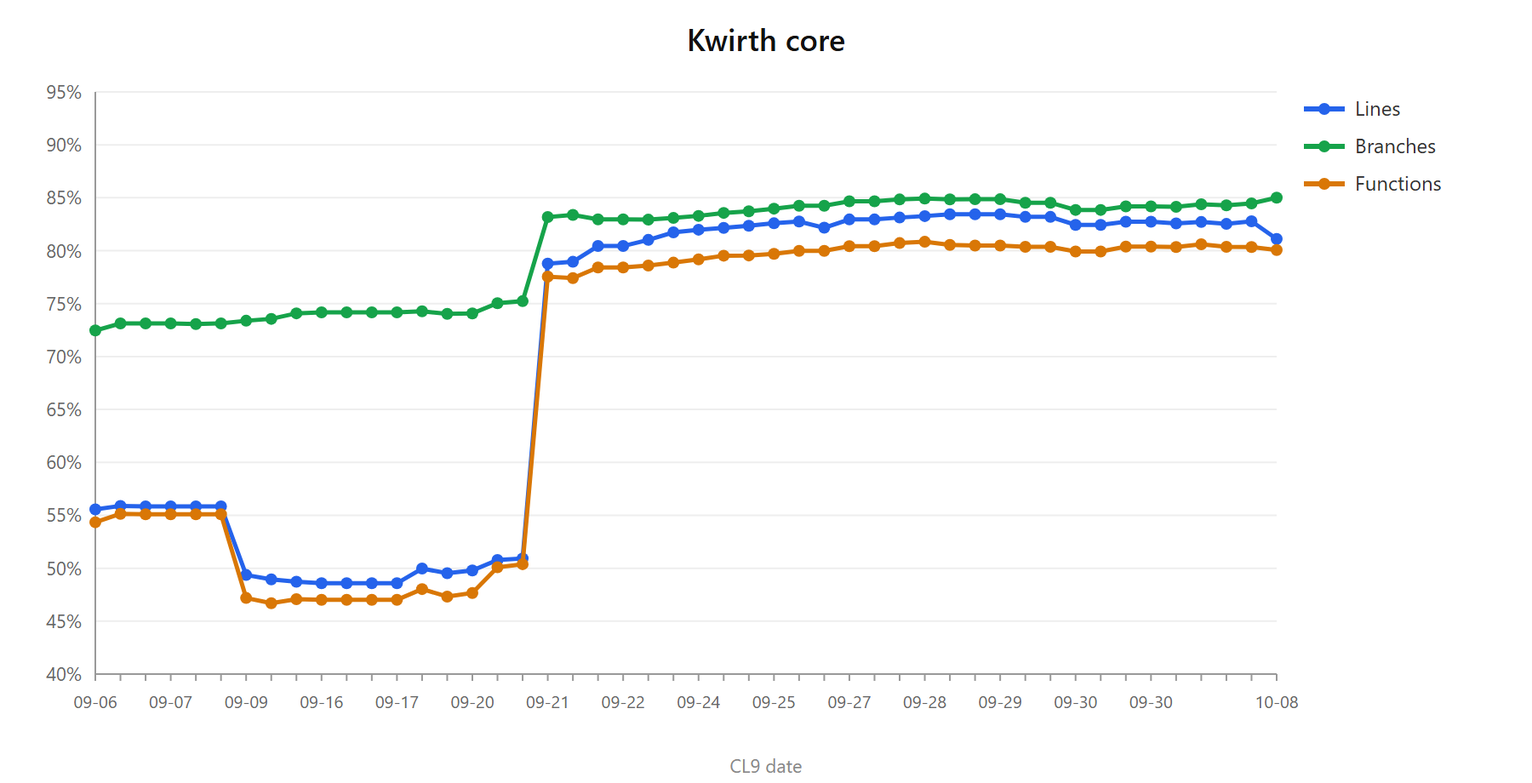
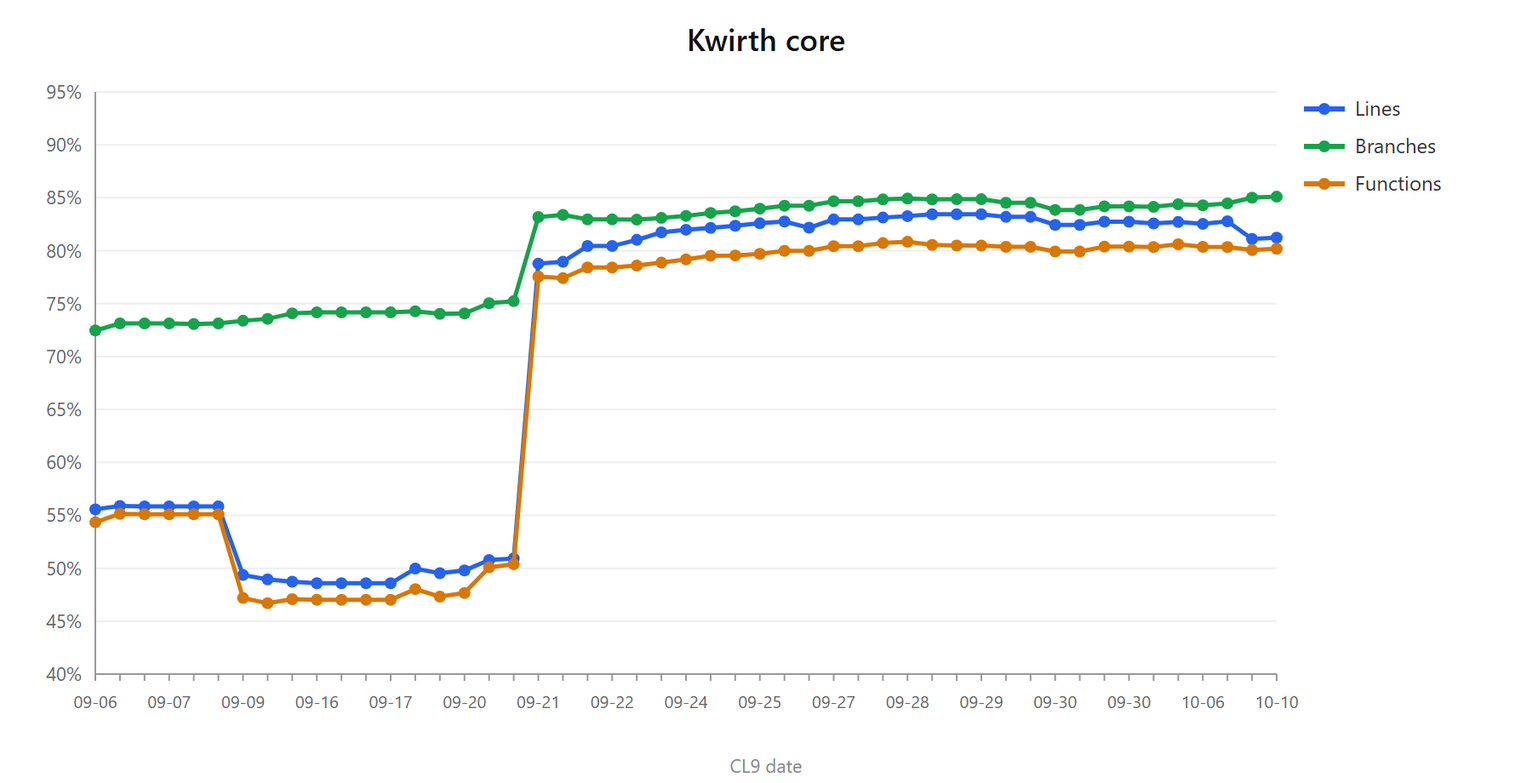
fix(common-ai): both AI config dialogs fit without a scroller, and the apply button shows (0.5.69)
common-ai 0.5.69, with the back and the front moved to it, the e2e that pins
the layout (ai-config-dialog-layout.spec.ts) and the QA metrics row.

diff --git a/common-ai/src/front.tsx b/common-ai/src/front.tsx
@@ -76,42 +76,47 @@ const UsageLimitsEditor: React.FC<IUsageLimitsEditorProps> = (props: IUsageLimit
 
     const numberOrUndefined = (text: string): number | undefined => text === '' ? undefined : +text
 
-    return (<Stack direction='column' spacing={1} sx={{ mt: 1 }}>
-        <Typography variant='body2' color='text.secondary'>
-            Stop spending on <b>{props.subject}</b>. A call goes out only if <b>no</b> enabled ceiling is
-            reached — whichever is passed first blocks it, and the channel is told why.
-        </Typography>
-        {/* The one thing an admin must not learn the hard way, said where the limit is set. */}
+    /*
+        Compact on purpose. These rows used to be three paragraphs of prose and four full-height fields,
+        which pushed the Add/Update button below the fold — and that button is the one that applies the
+        form to the list, so a limit typed above it looked saved and was not. Height here is not a
+        cosmetic matter: it is what decides whether the control that commits the edit can be seen.
+
+        What was dropped is repetition, not meaning. The one thing an admin must not learn the hard way
+        — that a tokens or cost ceiling stops the NEXT call, because the amount is only known once the
+        model has answered — is still said, in one line, where the limit is set.
+    */
+    return (<Stack direction='column' spacing={0.5} sx={{ mt: 0.5 }}>
         <Typography variant='caption' color='text.secondary'>
-            ⚠ A <b>calls</b> ceiling stops the call that would exceed it. <b>Tokens</b> and <b>cost</b> are
-            only known once the model has answered, so those stop the <b>next</b> call: the one that crosses
-            the line has already been paid for.
+            Stop spending on <b>{props.subject}</b>: a call goes out only if <b>no</b> enabled ceiling is
+            reached. ⚠ A <b>calls</b> ceiling stops the call that would exceed it; <b>tokens</b> and
+            <b> cost</b> are only known after the answer, so those stop the <b>next</b> one.
         </Typography>
         {props.usage && props.durable === false &&
             <Typography variant='caption' color='warning.main'>
-                ⚠ These counters are kept <b>in memory</b>, because this Kwirth has no SQL configured:
-                they go back to zero on every restart, and so do the limits that depend on them.
+                ⚠ Counters kept <b>in memory</b> (no SQL): they reset on every restart, and so do these limits.
             </Typography>
         }
         {USAGE_ROWS.map(({ unit, label, of }) => {
             const w: IUsageWindows = limits[unit] ?? { enabled: false }
             // What has been spent goes in the helper text of its own window: next to the number it is
-            // measured against, which is the only place it answers anything.
+            // measured against, which is the only place it answers anything. It only costs height when
+            // there IS usage, which is when it earns it.
             const spent = (amounts: IUsageAmounts | undefined): string | undefined =>
                 amounts ? `${formatSpent(of(amounts))} so far` : undefined
             return (<Stack key={unit} direction='row' spacing={1} alignItems='flex-start'>
-                <FormControlLabel sx={{ width: '190px', mr: 0, mt: 1 }} control={
-                    <Checkbox checked={!!w.enabled} disabled={props.disabled}
+                <FormControlLabel sx={{ width: '150px', mr: 0, mt: 0.5 }} control={
+                    <Checkbox size='small' checked={!!w.enabled} disabled={props.disabled}
                         onChange={e => patch(unit, { enabled: e.target.checked })} />
-                } label={label} />
+                } label={<Typography variant='body2'>{label}</Typography>} />
                 <TextField value={w.daily ?? ''} onChange={e => patch(unit, { daily: numberOrUndefined(e.target.value) })}
-                    label='Per day' variant='standard' type='number' fullWidth
+                    label='Per day' variant='standard' type='number' fullWidth size='small'
                     disabled={props.disabled || !w.enabled} inputProps={{ min: 0 }} placeholder='no limit'
-                    helperText={spent(props.usage?.daily)} />
+                    helperText={spent(props.usage?.daily)} FormHelperTextProps={{ sx: { mt: 0 } }} />
                 <TextField value={w.monthly ?? ''} onChange={e => patch(unit, { monthly: numberOrUndefined(e.target.value) })}
-                    label='Per month' variant='standard' type='number' fullWidth
+                    label='Per month' variant='standard' type='number' fullWidth size='small'
                     disabled={props.disabled || !w.enabled} inputProps={{ min: 0 }} placeholder='no limit'
-                    helperText={spent(props.usage?.monthly)} />
+                    helperText={spent(props.usage?.monthly)} FormHelperTextProps={{ sx: { mt: 0 } }} />
             </Stack>)
         })}
     </Stack>)
@@ -210,12 +215,17 @@ const AiConfigLlm: React.FC<IAiConfigLlmProps> = (props: IAiConfigLlmProps) => {
         onNew()
     }
 
+    /*
+        Height follows the content instead of being pinned at 78vh. A fixed height is what put the
+        Add/Update button below the fold on a short screen: the form grew, the dialog did not, and the
+        control that applies the form to the list scrolled out of sight.
+    */
     return (
-        <Dialog open={true} onClose={() => props.onClose(undefined)} PaperProps={{ sx: { width: '80vw', maxWidth: '800px', height: '78vh' } }}>
-            <DialogTitle>AI — LLM config</DialogTitle>
-            <DialogContent style={{ display: 'flex', height: '100%' }}>
-                <Box sx={{ flex: 1, display: 'flex', flexDirection: 'column', boxSizing: 'border-box', maxWidth: '40%' }}>
-                    <Box sx={{ flex: 1, overflowY: 'auto', overflowX: 'hidden' }}>
+        <Dialog open={true} onClose={() => props.onClose(undefined)} PaperProps={{ sx: { width: '90vw', maxWidth: '1200px', height: 'auto', maxHeight: '90vh' } }}>
+            <DialogTitle sx={{ pb: 1 }}>AI — LLM config</DialogTitle>
+            <DialogContent style={{ display: 'flex' }}>
+                <Box sx={{ flex: '0 0 220px', display: 'flex', flexDirection: 'column', boxSizing: 'border-box' }}>
+                    <Box sx={{ flex: 1, overflowY: 'auto', overflowX: 'hidden', maxHeight: '70vh' }}>
                         <List sx={{ flexGrow: 1, mr: 2, width: '100%' }}>
                             {llms.map((llm, index) => (
                                 <ListItemButton key={index} selected={selectedIndex === index} onClick={() => onLlmSelected(index)}>
@@ -228,9 +238,10 @@ const AiConfigLlm: React.FC<IAiConfigLlmProps> = (props: IAiConfigLlmProps) => {
                         </List>
                     </Box>
                 </Box>
-                <Box sx={{ flex: 1, display: 'flex', alignItems: 'start', padding: '16px' }}>
+                <Box sx={{ flex: 1, display: 'flex', alignItems: 'start', padding: '16px', minWidth: 0 }}>
                     <Stack spacing={2} style={{ width: '100%' }}>
-                        <Stack direction='column' spacing={1}>
+                        <Stack direction='row' spacing={3} alignItems='flex-start' sx={{ flexWrap: 'wrap' }}>
+                        <Stack direction='column' spacing={1} sx={{ flex: 1, minWidth: '260px' }}>
                             <TextField value={id} onChange={e => setId(e.target.value)} placeholder='Enter LLM id' label='LLM ID' variant='standard' fullWidth />
                             <FormControl variant='standard' sx={{ width: '100%' }}>
                                 <InputLabel>Provider</InputLabel>
@@ -255,10 +266,12 @@ const AiConfigLlm: React.FC<IAiConfigLlmProps> = (props: IAiConfigLlmProps) => {
                                     <TextField value={model} onChange={e => setModel(e.target.value)} label='Model ID' placeholder='e.g. claude-sonnet-4-5, glm-5.2' variant='standard' fullWidth />
                                 )
                             }
-                            <TextField value={temperature} onChange={e => setTemperature(+e.target.value)} label='Model temperature' variant='standard' type='number' fullWidth />
+                            {/* Three numbers on one line: a field each cost a whole row, and the rows are
+                                what pushed the Add/Update button out of sight. */}
                             <Stack direction='row' spacing={1}>
-                                <TextField value={inputCostPerMillion} onChange={e => setInputCostPerMillion(e.target.value === '' ? '' : +e.target.value)} label='Input cost / M tokens (€/$)' variant='standard' type='number' fullWidth inputProps={{ min: 0, step: 0.01 }} />
-                                <TextField value={outputCostPerMillion} onChange={e => setOutputCostPerMillion(e.target.value === '' ? '' : +e.target.value)} label='Output cost / M tokens (€/$)' variant='standard' type='number' fullWidth inputProps={{ min: 0, step: 0.01 }} />
+                                <TextField value={temperature} onChange={e => setTemperature(+e.target.value)} label='Temperature' variant='standard' type='number' sx={{ width: '28%' }} />
+                                <TextField value={inputCostPerMillion} onChange={e => setInputCostPerMillion(e.target.value === '' ? '' : +e.target.value)} label='Input cost /M' variant='standard' type='number' fullWidth inputProps={{ min: 0, step: 0.01 }} />
+                                <TextField value={outputCostPerMillion} onChange={e => setOutputCostPerMillion(e.target.value === '' ? '' : +e.target.value)} label='Output cost /M' variant='standard' type='number' fullWidth inputProps={{ min: 0, step: 0.01 }} />
                             </Stack>
                             <Stack direction='row' alignItems='center'>
                                 <Typography flex={1}>Use provider API Key (or enter a specific one)</Typography>
@@ -276,9 +289,15 @@ const AiConfigLlm: React.FC<IAiConfigLlmProps> = (props: IAiConfigLlmProps) => {
                                     )
                                 }}
                             />
-                            {/* Only with its own key: on a borrowed one the budget belongs to the
-                                provider, and showing a ceiling here that nothing enforces is worse
-                                than not showing one. */}
+                        </Stack>
+                        {/* Only with its own key: on a borrowed one the budget belongs to the
+                            provider, and showing a ceiling here that nothing enforces is worse
+                            than not showing one.
+
+                            Second column, not another row: see the provider dialog — the limits block is
+                            what pushed Add/Update below the fold. */}
+                        <Stack direction='column' spacing={1} sx={{ flex: 1, minWidth: '260px' }}>
+                            <Typography variant='subtitle2'>Usage limits</Typography>
                             { useProviderKey
                                 ? <Typography variant='caption' color='text.secondary'>
                                     Usage limits for this model live on its provider, because it borrows
@@ -287,6 +306,7 @@ const AiConfigLlm: React.FC<IAiConfigLlmProps> = (props: IAiConfigLlmProps) => {
                                 : <UsageLimitsEditor value={limits} onChange={setLimits} subject={`this model's own key`}
                                     usage={props.usage?.[id]} durable={props.usageDurable} />
                             }
+                        </Stack>
                         </Stack>
                         <Stack direction='row' spacing={1}>
                             <Button variant='outlined' size='small' onClick={onNew}>New</Button>
@@ -405,11 +425,11 @@ const AiConfigProvider: React.FC<IAiConfigProviderProps> = (props: IAiConfigProv
     }
 
     return (
-        <Dialog open={true} onClose={() => props.onClose(undefined)} PaperProps={{ sx: { width: '80vw', maxWidth: '900px', height: 'auto', maxHeight: '90vh' } }}>
-            <DialogTitle>AI — Provider config</DialogTitle>
+        <Dialog open={true} onClose={() => props.onClose(undefined)} PaperProps={{ sx: { width: '90vw', maxWidth: '1200px', height: 'auto', maxHeight: '90vh' } }}>
+            <DialogTitle sx={{ pb: 1 }}>AI — Provider config</DialogTitle>
             <DialogContent style={{ display: 'flex' }}>
-                <Box sx={{ flex: 1, display: 'flex', flexDirection: 'column', boxSizing: 'border-box', maxWidth: '30%' }}>
-                    <Box sx={{ flex: 1, overflowY: 'auto', maxHeight: '60vh' }}>
+                <Box sx={{ flex: '0 0 220px', display: 'flex', flexDirection: 'column', boxSizing: 'border-box' }}>
+                    <Box sx={{ flex: 1, overflowY: 'auto', maxHeight: '70vh' }}>
                         <List sx={{ mr: 1 }}>
                             {providers.map((p, index) => (
                                 <ListItemButton key={index} selected={selectedIndex === index} onClick={() => onProviderSelected(p, index)}>
@@ -422,8 +442,10 @@ const AiConfigProvider: React.FC<IAiConfigProviderProps> = (props: IAiConfigProv
                         </List>
                     </Box>
                 </Box>
-                <Box sx={{ flex: 1, display: 'flex', alignItems: 'start', padding: '24px' }}>
-                    <Stack spacing={3} style={{ width: '100%' }}>
+                <Box sx={{ flex: 1, display: 'flex', alignItems: 'start', padding: '16px', minWidth: 0 }}>
+                    <Stack spacing={2} style={{ width: '100%' }}>
+                    <Stack direction='row' spacing={3} alignItems='flex-start' sx={{ flexWrap: 'wrap' }}>
+                    <Stack direction='column' spacing={1} sx={{ flex: 1, minWidth: '260px' }}>
                         <TextField label='Name' variant='standard' fullWidth placeholder='e.g. huawei-maas, openai-prod'
                             value={providerName} onChange={e => setProviderName(e.target.value)}
                             helperText='Unique identifier for this provider instance'
@@ -455,13 +477,21 @@ const AiConfigProvider: React.FC<IAiConfigProviderProps> = (props: IAiConfigProv
                                 helperText='OpenAI-compatible API base URL (e.g. Huawei MaaS, vLLM, LM Studio…)'
                             />
                         )}
-                        {/* The ceilings of THIS key, shared by every model that borrows it: the provider
-                            bills the key, so splitting the budget per model would split a bill that it
-                            keeps as one. */}
+                    </Stack>
+                    {/* The ceilings of THIS key, shared by every model that borrows it: the provider
+                        bills the key, so splitting the budget per model would split a bill that it
+                        keeps as one.
+
+                        Second column, not another row: four units × two windows is the tallest block of
+                        the form, and stacked under the credentials it pushed the Add/Update button out
+                        of sight on a laptop screen. */}
+                    <Stack direction='column' spacing={1} sx={{ flex: 1, minWidth: '260px' }}>
+                        <Typography variant='subtitle2'>Usage limits</Typography>
                         <UsageLimitsEditor value={providerLimits} onChange={setProviderLimits}
                             subject={`this provider's key`} disabled={!providerName.trim()}
                             usage={props.usage?.[providerName]} durable={props.usageDurable} />
-                        <Box sx={{ flexGrow: 1 }} />
+                    </Stack>
+                    </Stack>
                         <Stack direction='row' spacing={1} alignItems='center'>
                             <Button variant='outlined' onClick={onNew}>New</Button>
                             { props.onLoadModels && (

diff --git a/front/e2e/tests/ai-config-dialog-layout.spec.ts b/front/e2e/tests/ai-config-dialog-layout.spec.ts
@@ -1,0 +1,123 @@
+// The two AI config dialogs ('AI providers' and 'AI models') must FIT: no vertical scrollbar on the
+// dialog body, and the button that applies the form to the list ('Add' / 'Update') visible without
+// scrolling.
+//
+// Why: the dialogs used to be pinned at a fixed height while the form kept growing (usage limits grew
+// three prose blocks and a row per period). On a laptop screen the Add/Update button ended up below the
+// fold, so the form looked like it did not persist — the user filled it in, pressed OK, and the edit had
+// never reached the list because Update was never pressed.
+//
+// NON-DESTRUCTIVE: it only opens dialogs, selects entries, and cancels. Nothing is ever saved.
+import { test, expect, Page } from '@playwright/test'
+import { login, dismissOpenDialogs, openMenu } from './helpers'
+
+test.describe.configure({ mode: 'serial' })
+
+test.describe('AI config: los dialogos caben sin scroller', () => {
+    let page: Page
+
+    test.beforeAll(async ({ browser }) => {
+        page = await browser.newPage()
+        // A short viewport is the whole point: on a tall screen anything fits.
+        await page.setViewportSize({ width: 1280, height: 720 })
+        await login(page)
+        await dismissOpenDialogs(page)
+    })
+
+    test.afterAll(async () => { await page?.close() })
+
+    // 'AI Providers' and 'AI Models' live inside the COLLAPSIBLE 'AI Config' group of the drawer: it has
+    // to be expanded before they can be clicked.
+    const openAiConfig = async (item: RegExp) => {
+        await dismissOpenDialogs(page)
+        await openMenu(page)
+        await page.getByRole('menuitem', { name: /AI Config/i }).click()
+        await page.waitForTimeout(400)
+        await page.getByRole('menuitem', { name: item }).click()
+        await page.waitForTimeout(1500)
+        return page.getByRole('dialog')
+    }
+
+    const closeDialog = async (dlg: ReturnType<Page['getByRole']>) => {
+        await dlg.getByRole('button', { name: /^cancel$/i }).click()
+        await page.waitForTimeout(400)
+    }
+
+    // The body of a MUI dialog is the element that scrolls. 2px of slack absorbs sub-pixel rounding.
+    const bodyOverflow = async (dlg: ReturnType<Page['getByRole']>): Promise<number> =>
+        dlg.locator('.MuiDialogContent-root').first().evaluate(el => el.scrollHeight - el.clientHeight)
+
+    const assertFits = async (dlg: ReturnType<Page['getByRole']>, what: string) => {
+        const overflow = await bodyOverflow(dlg)
+        expect(overflow, `'${what}': el cuerpo del dialogo desborda ${overflow}px, sale scroller`).toBeLessThanOrEqual(2)
+    }
+
+    const assertApplyButtonVisible = async (dlg: ReturnType<Page['getByRole']>, what: string) => {
+        const button = dlg.getByRole('button', { name: /^(Add|Update)$/ }).last()
+        await expect(button, `'${what}': el boton Add/Update no esta visible`).toBeVisible()
+        const box = await button.boundingBox()
+        expect(box, `'${what}': el boton Add/Update no tiene caja`).not.toBeNull()
+        const viewport = page.viewportSize()!
+        expect(box!.y + box!.height, `'${what}': el boton Add/Update cae fuera de la pantalla`).toBeLessThanOrEqual(viewport.height)
+    }
+
+    test('el dialogo de providers cabe recien abierto', async () => {
+        const dlg = await openAiConfig(/^AI Providers$/)
+        await expect(dlg.getByText('AI — Provider config')).toBeVisible()
+        await assertFits(dlg, 'AI providers / vacio')
+        await assertApplyButtonVisible(dlg, 'AI providers / vacio')
+        await closeDialog(dlg)
+    })
+
+    test('el dialogo de providers cabe con un provider seleccionado (limites desplegados)', async () => {
+        const dlg = await openAiConfig(/^AI Providers$/)
+        const entries = dlg.locator('.MuiListItemButton-root')
+        const count = await entries.count()
+        test.skip(count === 0, 'no hay providers configurados en este entorno')
+        // The selected provider is the worst case: the usage limits editor only renders its rows once
+        // there is a provider name.
+        for (let i = 0; i < count; i++) {
+            await entries.nth(i).click()
+            await page.waitForTimeout(300)
+            const name = (await entries.nth(i).innerText()).split('\n')[0]
+            await assertFits(dlg, `AI providers / ${name}`)
+            await assertApplyButtonVisible(dlg, `AI providers / ${name}`)
+        }
+        await closeDialog(dlg)
+    })
+
+    test('el dialogo de LLMs cabe recien abierto', async () => {
+        const dlg = await openAiConfig(/^AI Models$/)
+        await expect(dlg.getByText('AI — LLM config')).toBeVisible()
+        await assertFits(dlg, 'AI models / vacio')
+        await assertApplyButtonVisible(dlg, 'AI models / vacio')
+        await closeDialog(dlg)
+    })
+
+    test('el dialogo de LLMs cabe con un modelo seleccionado', async () => {
+        const dlg = await openAiConfig(/^AI Models$/)
+        const entries = dlg.locator('.MuiListItemButton-root')
+        const count = await entries.count()
+        test.skip(count === 0, 'no hay LLMs configurados en este entorno')
+        for (let i = 0; i < count; i++) {
+            await entries.nth(i).click()
+            await page.waitForTimeout(300)
+            const id = (await entries.nth(i).innerText()).split('\n')[0]
+            await assertFits(dlg, `AI models / ${id}`)
+            await assertApplyButtonVisible(dlg, `AI models / ${id}`)
+            // WORST CASE: an LLM that borrows the provider key only shows a two-line note where the
+            // limits go. Unchecking it renders the FULL editor — four units × two windows — which is the
+            // block that used to push Add/Update out of sight. Nothing is saved: the dialog is cancelled.
+            const ownKey = dlg.locator('input[type="checkbox"]').first()
+            if (await ownKey.isChecked()) {
+                await ownKey.uncheck()
+                await page.waitForTimeout(300)
+                await assertFits(dlg, `AI models / ${id} (key propia)`)
+                await assertApplyButtonVisible(dlg, `AI models / ${id} (key propia)`)
+                await ownKey.check()
+                await page.waitForTimeout(200)
+            }
+        }
+        await closeDialog(dlg)
+    })
+})

diff --git a/docs/qa/test-metrics-history.md b/docs/qa/test-metrics-history.md
@@ -44,6 +44,7 @@
 
 | Fecha | Cierre | Harness | Cobertura (líneas / ramas / funcs) | e2e | Notas |
 |---|---|---|---|---|---|
+| 2026-10-10 | Los dos diálogos de AI config caben sin scroller, y el botón que aplica el formulario se ve (`common-ai` **0.5.69**) | **707** ✅ (703 pass · 4 skip · 0 fail) · `common-ai` **49** ✅ | **81.23 % / 85.10 % / 80.18 %** | **48** specs ✅ (+1) · 204 casos (+4) — `ai-config-dialog-layout.spec.ts` | **Se reportó como «no se persiste»: un límite de 3 llamadas/día subido a 30 volvía a salir en 3.** 🔴 **El comportamiento era correcto y el diagnóstico inicial, mirar la persistencia, era el sitio equivocado.** El `OK` del diálogo devuelve **la lista**, y lo que se teclea en el formulario solo llega a esa lista por el botón `Add`/`Update`. El defecto real era que **ese botón caía por debajo del pliegue**: el diálogo estaba clavado a `78vh` mientras el formulario crecía, así que el usuario rellenaba, daba a `OK` y el cambio nunca había entrado. 🔴 **La lección que deja la fila: un formulario cuyo control de commit no se ve es indistinguible de un formulario que no guarda.** La altura aquí no es cosmética, es lo que decide si se puede confirmar la edición. **Lo que se hizo no fue apretar, fue reorganizar.** Apretar se hizo (los tres párrafos de prosa del editor de límites pasan a un `caption`, `size='small'`, la etiqueta de 190→150 px), pero no bastaba: **4 unidades × 2 ventanas es el bloque más alto del formulario**, y apilado debajo de las credenciales no cabía en 720 px ni quitándole todo. El formulario pasa a **dos columnas** —credenciales a la izquierda, presupuesto a la derecha—, el diálogo de `800/900 px` a `90vw / 1200 px` y la lista se fija a `220 px`. Así el bloque de límites **compite** con las credenciales en vez de encadenarse a ellas. **Medido, no mirado a ojo**: a 1280×720 el `scrollHeight - clientHeight` del cuerpo es **0** en todos los casos (3 providers y 11 LLM, con y sin selección), y la columna del formulario se queda en ~410 px contra 538 disponibles. ⚠ **Los 538 los marca la LISTA, no el formulario**: tiene su propio `maxHeight: 70vh` y scroll interno, que es lo correcto y ya estaba — lo que se pidió quitar era el scroller que escondía el botón. 🔴 **Mi primera corrida de medidas era vacía justo en el peor caso y por poco la doy por buena**: los 11 LLM del entorno toman prestada la key de su provider, y en ese caso el editor de límites **no se pinta** —solo un aviso de dos líneas—, así que las 11 medidas idénticas no probaban nada sobre el bloque que causó el problema. El spec ahora **desmarca «Use provider API Key»** y vuelve a medir con el editor completo desplegado (sigue siendo no destructivo: se cancela). ⚠ **Un `retry #1` en `pinocchio-ai-provider-roundtrip` en la primera corrida tras reiniciar el front**; no reproducible en dos corridas posteriores de la misma combinación con `--retries=0` (8/8 limpio las dos veces) — webpack aún compilando, no el cambio. ⚠ **Tres publicaciones para un solo slice** (`0.5.67` apretando, `0.5.68` un `pb` suelto, `0.5.69` la reorganización): haber echado las cuentas de altura **antes** de publicar la primera habría ahorrado dos. El +12 de harness sobre la fila anterior es de otra sesión; este slice no toca el back |
 | 2026-10-09 | Un tercer tipo de despliegue: Kwirth en un pod **sin un solo permiso de Kubernetes** (`CONTAINER`, `kwirth-zero.yaml`, chart `mode: zero`) | **695** ✅ (+5) · manifiestos **26** ✅ (+18) · chart **46** ✅ (+7) | sin medir (WIP ajeno en el árbol) | manifiestos **63** ✅ (+23, **los tres**) · chart **77** ✅ (+17, **los tres modos** instalados de verdad en k3d) | **Lo pedido era un despliegue tradicional, sin SA ni roles ni nada, como el de ECS o Docker.** 🔴 **Mi primer diagnóstico fue erróneo y el usuario tenía razón**: dije que hacía falta tocar el core porque dentro de un pod `resolveEnvironmentCapabilities` fija `kubernetes = true` sin preguntar. Lo que no miré es que **`FORCE` existe precisamente para eso** y está documentado en el README de ECS como *override the environment detection*. Con `FORCE=ecs` salía andando sin una línea de código. ⚠ **Pero usar `ecs` en un pod es una mentira visible**: el comentario del propio enum dice que `executionEnvironment` se publica porque *"es lo primero que uno quiere saber al diagnosticar el despliegue de otro"*, y poner `ecs` ahí rompe justo eso. Así que se añadió **`CONTAINER` como valor real**, no como alias. 🔴 **Y el nombre genérico no es cosmético: nombra algo que ya existía.** ECS, Cloud Run y ACI **ya compartían el mismo `case`** en `resolveStore` y ya estaban juntos en la lista de `serverless` — son **un** perfil ("contenedor con volumen montado, store cifrado en `KWIRTH_STORE`, clúster solo si hay kubeconfig") con tres etiquetas, y lo único que los distingue es **cómo se detectan**. `CONTAINER` es el cuarto miembro, y el único que hay que declarar a mano porque no hay señal que detectar: el kubelet inyecta `KUBERNETES_SERVICE_HOST` en todo pod y eso gana. Radio del cambio: **ni el front ni un solo plugin** miran ese enum, solo tres ficheros del back. Efecto lateral bueno: `FORCE=ecs` sondeaba el endpoint de metadatos de ECS en cada arranque, fallaba y se disculpaba en el log; `CONTAINER` va directo al uuid generado. 🔴 **El matiz que salió de revisar `deploy/ecs` y que corrige el nombre**: `container` **no significa "sin clúster"**, significa "plataforma que Kwirth no reconoce". La `task-definition-ec2.json` **monta un kubeconfig** y sí ve su clúster — lo manda `probes.kubeconfig`, nunca el nombre del entorno. Está fijado en un test y dicho en las tres cabeceras. **El manifiesto son 5 objetos** (4 sin el bloque de SQL): Namespace, el Secret de la contraseña de la base, PVC, Deployment y Service. **Ni un objeto RBAC**, y `automountServiceAccountToken: false`, que es la mitad que no es RBAC: sin eso "sin roles" deja igualmente una credencial dentro del contenedor. Probado arrancando: `executionEnvironment: 'container'`, `clusterType: none`, el store cifrado escrito en el PVC y **el directorio del token inexistente** dentro del pod. **En el chart es `mode: zero`**, y como los otros dos arrastra consigo lo que tiene que ir junto: sin RBAC, sin ServiceAccount, token apagado, `FORCE=container` y los dos canales de clúster en false. Se niega a renderizar tres combinaciones, incluida **pedir RBAC en el modo cuyo propósito es no tenerlo**. ⚠ **Dos bugs del chart que destapó el modo nuevo.** (1) `users.bootstrap` estaba atado al MODO cuando la condición real es el **STORE**: el core lee ese Secret solo si su store es el clúster, así que un `normal` con `persistence` activada llevaba tiempo renderizando un Secret de usuarios **que nadie lee**. (2) `rbac.create` y `serviceAccount.create` estaban fijados a `true` en vez de derivarse; ahora siguen al modo y un `true` explícito con `zero` se rechaza como la contradicción que es. **Los tests pasan a cubrir TODAS las opciones de despliegue**, que es lo que se pidió: los unitarios de manifiestos miran los **tres** ficheros (antes uno), y el e2e los prueba a cada uno desde el ángulo que le toca — que el permisivo **sí puede** hacer `exec`, `delete` y `patch`, que es su razón de ser y nadie lo comprobaba; que el de lectura no puede; y que en el `zero` el ServiceAccount `default` al que cae **no puede absolutamente nada**. El del chart instala los tres modos de verdad, y en `zero` comprueba lo único que no se puede leer del YAML: que **arranca** como contenedor en vez de caer al `localhost:8080` inventado del cliente. ⚠ **Dos veces me destrozó bash las template literals** al insertar código con heredocs, la segunda dejando el fichero del e2e roto; se arregló escribiendo el bloque con la herramienta de ficheros y empalmándolo con un script, sin shell de por medio. `@kwirthmagnify/kwirth-common` a **0.5.66** |
 | 2026-10-08 | Ninguna contraseña en claro, en ningún sitio — y el chart genera y enseña la del admin | **690** ✅ (+2 de login) · chart **38** ✅ (+5) | sin medir (WIP ajeno en el árbol) | manifiesto **40** ✅ · chart **60** ✅ (+6), los dos modos contra k3d con imagen propia | **Se quitó la rama de login que aceptaba una contraseña guardada en TEXTO PLANO.** Existía para migrar instalaciones anteriores al hasheo: comparaba `sha256(stored)` y re-hasheaba al pasar. 🔴 **Un camino que acepta una contraseña sin hashear es un camino que hace que guardarla sin hashear funcione**, así que fuera, y con él el `migrate` entero. ⚠ **Es ruptura deliberada y así está documentada**: quien tenga una se queda fuera y hay que borrar su Secret de usuarios. 🔴 **Lo que costó no fue quitarla, fue el dominó.** Lo guardado es `bcrypt(sha256(contraseña))` y no `bcrypt(contraseña)` —el navegador manda el sha256 y el texto claro no sale de ahí—, así que **todo lo que siembra un usuario** tuvo que alinearse: `createAdminUserIfMissing` del core, el blob a fuego de `kwirth.yaml` (y de paso su clave de Secret, que ahora es `YWRtaW4`, base64url como la escribe el core) y el chart. `UserApi` ya hasheaba. Y el aviso de «cambia tu contraseña» no podía seguir detectándose con `stored === 'password'`: ahora es un `bcrypt.compare(sha256('password'), stored)`, así que el admin sembrado por defecto sigue recibiendo su 201. **Se aceptan los tres prefijos** (`$2a$`, `$2b$`, `$2y$`) y no solo `$2b$`: `bcryptjs` los verifica igual y exigir uno rechazaba hashes de herramientas normales — el `htpasswd` de Helm emite `$2a$`. 🔴 **Y el e2e destapó un bug serio del core, anterior a todo esto.** `KubernetesSecrets.write` hacía `replaceNamespacedSecret` con un `metadata` de solo `name`, `namespace` y `resourceVersion`. Un replace es un PUT: sustituye el objeto entero, así que la primera vez que Kwirth escribía el Secret de usuarios **borraba** `helm.sh/resource-policy: keep` y las annotations de Helm — y el siguiente `helm upgrade` **se llevaba el Secret con todos los usuarios dentro**. Lo mismo en `KubernetesConfigMaps` para `kwirth.keys`. Ahora se conservan labels y annotations del objeto vivo. El bug ya estaba (cualquier alta de usuario desde la UI lo provocaba), pero generar la contraseña hizo que el primer login dejara de devolver 201 —que salía **antes** de migrar— y pasara a 200, que sí migra: pasó a saltar en **la primera instalación de todas**. El e2e lo cazó y ahora lo vigila. ⚠ **Tres rojos del camino fueron aserciones MÍAS desfasadas, ninguna del producto**: esperaba `$2b$` tras el upgrade cuando ya no hay migración y se queda el `$2a$` del chart; comparaba la contraseña impresa contra la guardada **por igualdad** cuando la guardada es un hash; y dos unitarios del chart afirmaban sobre el texto claro. Los tres verifican ahora con `bcrypt.compare` contra el `sha256`, que es lo que hace el core — y es más fuerte que mirar la forma del hash, porque comprobar solo el prefijo pasaría igual de contento con el hash de otra cosa. **Documentación**: la ruptura en `commontasks.md` y en la guía del admin (`04-security-and-permissions`, sección nueva sobre cómo se guardan las contraseñas), el modo readonly y la contraseña generada en `installation.md` y en el README del chart, y el plan de helm con sus streams. ⚠ Cobertura sin medir: el árbol tiene WIP de otra sesión y el número no sería el de lo commiteado |
 | 2026-10-08 | Auth hardening: sin MASTERKEY por defecto, bearer keys con HMAC, rate-limit de login (`plans/auth-hardening`) | **690** ✅ (+24) · 22 nuevos del stream (`masterKey` 5, `bearerSigning` 7, `loginRateLimiter` 5, `isValidKey` 5) | **81.11 % / 85.01 % / 80.06 %** | 47 specs · 173 casos (playwright sin cambios) · **`e2e:boot` 6/6** (Cloud Run, ACI, ECS, reinicio conserva identidad) · **QA en k3d: 4 escenarios** — FILE/PVC, store KUBERNETES, Tier-2 con MASTERKEY explícito, y rate-limit | **Una auditoría de la superficie de autenticación sacó un CRÍTICO real.** El `masterKey` por defecto era `Kwirth4Ever`, público y a fuego en código, chart, docs y tests: con él **cualquiera forja una bearer key admin offline** —`md5(masterKey\|resources\|expire)` sin estado en servidor— y la instancia la acepta. Verificado explotándolo: una `admin::::` firmada con `Kwirth4Ever` entraba en `/user`, `/key`, `/core/scopes`. 🔴 **La emergencia no era el algoritmo, era que el secreto fuese público**: en cuanto la clave es única y secreta, el esquema aguanta. **A1/A2** — fuera el default; si `MASTERKEY` no está, el core **genera una aleatoria y la persiste** en el store plano (`tools/MasterKey.ts`), no en secrets (ahí sería huevo-y-gallina: `NodeSecrets` cifra CON la clave). Clave y store cifrado **comparten volumen**, así que comparten destino: un reinicio que conserva el volumen la relee, uno que lo pierde los pierde a ambos — nunca hay store cifrado huérfano. 🔴 **Dos tiers, y el warn lo dice sin maquillar**: auto-generada cierra la forja (quien forja no tiene tu volumen), pero el cifrado at-rest es **ofuscación** mientras la clave viva al lado del cifrado; para protección real del volumen, `MASTERKEY` desde fuera (Secret de K8s). **A3** — `GET /config/info` dejaba ver `clusterName`/`namespace`/`deployment` **sin auth** (reconocimiento pre-login); ahora los redacta salvo clave válida (`isValidKey`, el chequeo silencioso sin 403 ni log). **A4** — un `RECONNECT` por WebSocket se procesaba **antes** de validar el accessKey: con un UUID de instancia filtrado se secuestraba un stream. Ahora exige accessKey válido (back valida, front manda su `accessString`). ⚠ El binding por-instancia (que la clave autorice ESA instancia) queda como follow-up documentado. **A5** — `/login` y `/login/password` solo estaban serializados por un semáforo, no limitados: `tools/LoginRateLimiter.ts` corta por `ip+user` (5 fallos → 429 + `Retry-After`), y un login correcto limpia el contador. **A6 (breaking)** — `md5(masterKey\|resources\|expire)` → **HMAC-SHA256** de `resources\|expire` con la masterKey de clave, comparado en tiempo constante (`timingSafeEqual`). md5 era un hash roto usado como MAC con el secreto de prefijo (la forma del length-extension); HMAC es un MAC de verdad. Invalida las bearer viejas a propósito, y toca el comando `APIKEY` y `deploy/external/main.js`. 🔴 **Se corrigió un error del informe inicial sobre A6**: el length-extension **no** aplicaba aquí —`resources` va en medio del mensaje firmado (inmutable) y la cola `expire` se valida como número—, así que HMAC es endurecimiento, no un vector abierto. **A7** — la enumeración de inventario de extensiones sin auth se dejó **documentada sin tocar**: gatearla rompería el login pre-auth (que necesita listar logins/themes). Manifiestos (`kwirth.yaml`, `kwirth-full-ro.yaml`) y el tool externo sin el default. Harness, typecheck, `e2e:boot` y k3d en verde; el QA manual con build propio del usuario queda pendiente del gate. ⚠ `index.ts` llevó entremezclado el WIP de `reapStaleSessions` (common-sql, otra sesión), ya resuelto con el bump. Solo core: nada que publicar, ningún tag |
